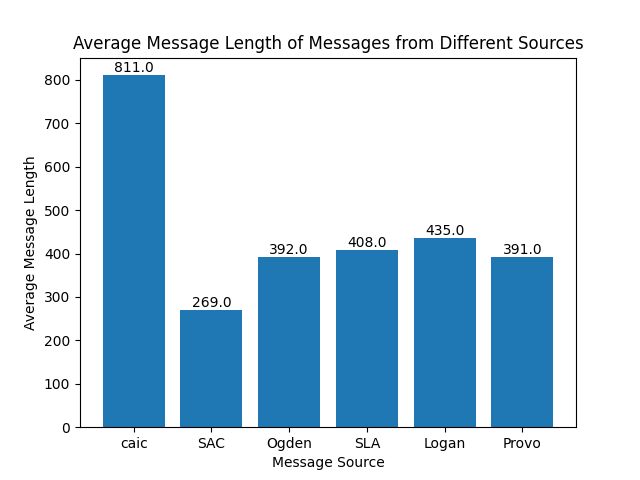
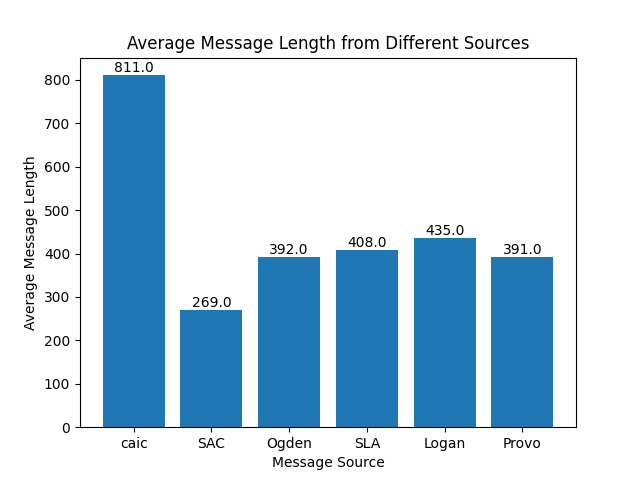
updated graphs

Changed region(s): [[0.0938, 0.0625, 0.9062, 0.125]]

diff --git a/3_LengthOfMessageAnalysis/32_process/length_of_message.py b/3_LengthOfMessageAnalysis/32_process/length_of_message.py
@@ -31,7 +31,7 @@ def main():
                 plt.text(i, value, str(round(value, 0)), ha='center', va='bottom')
             plt.ylabel("Average Message Length")
             plt.xlabel("Message Source")
-            plt.title("Average Message Length of Messages from Different Sources")
+            plt.title("Average Message Length from Different Sources")
             plt.savefig(f"../35_datavis/{filename}.png")
             plt.show()
 
